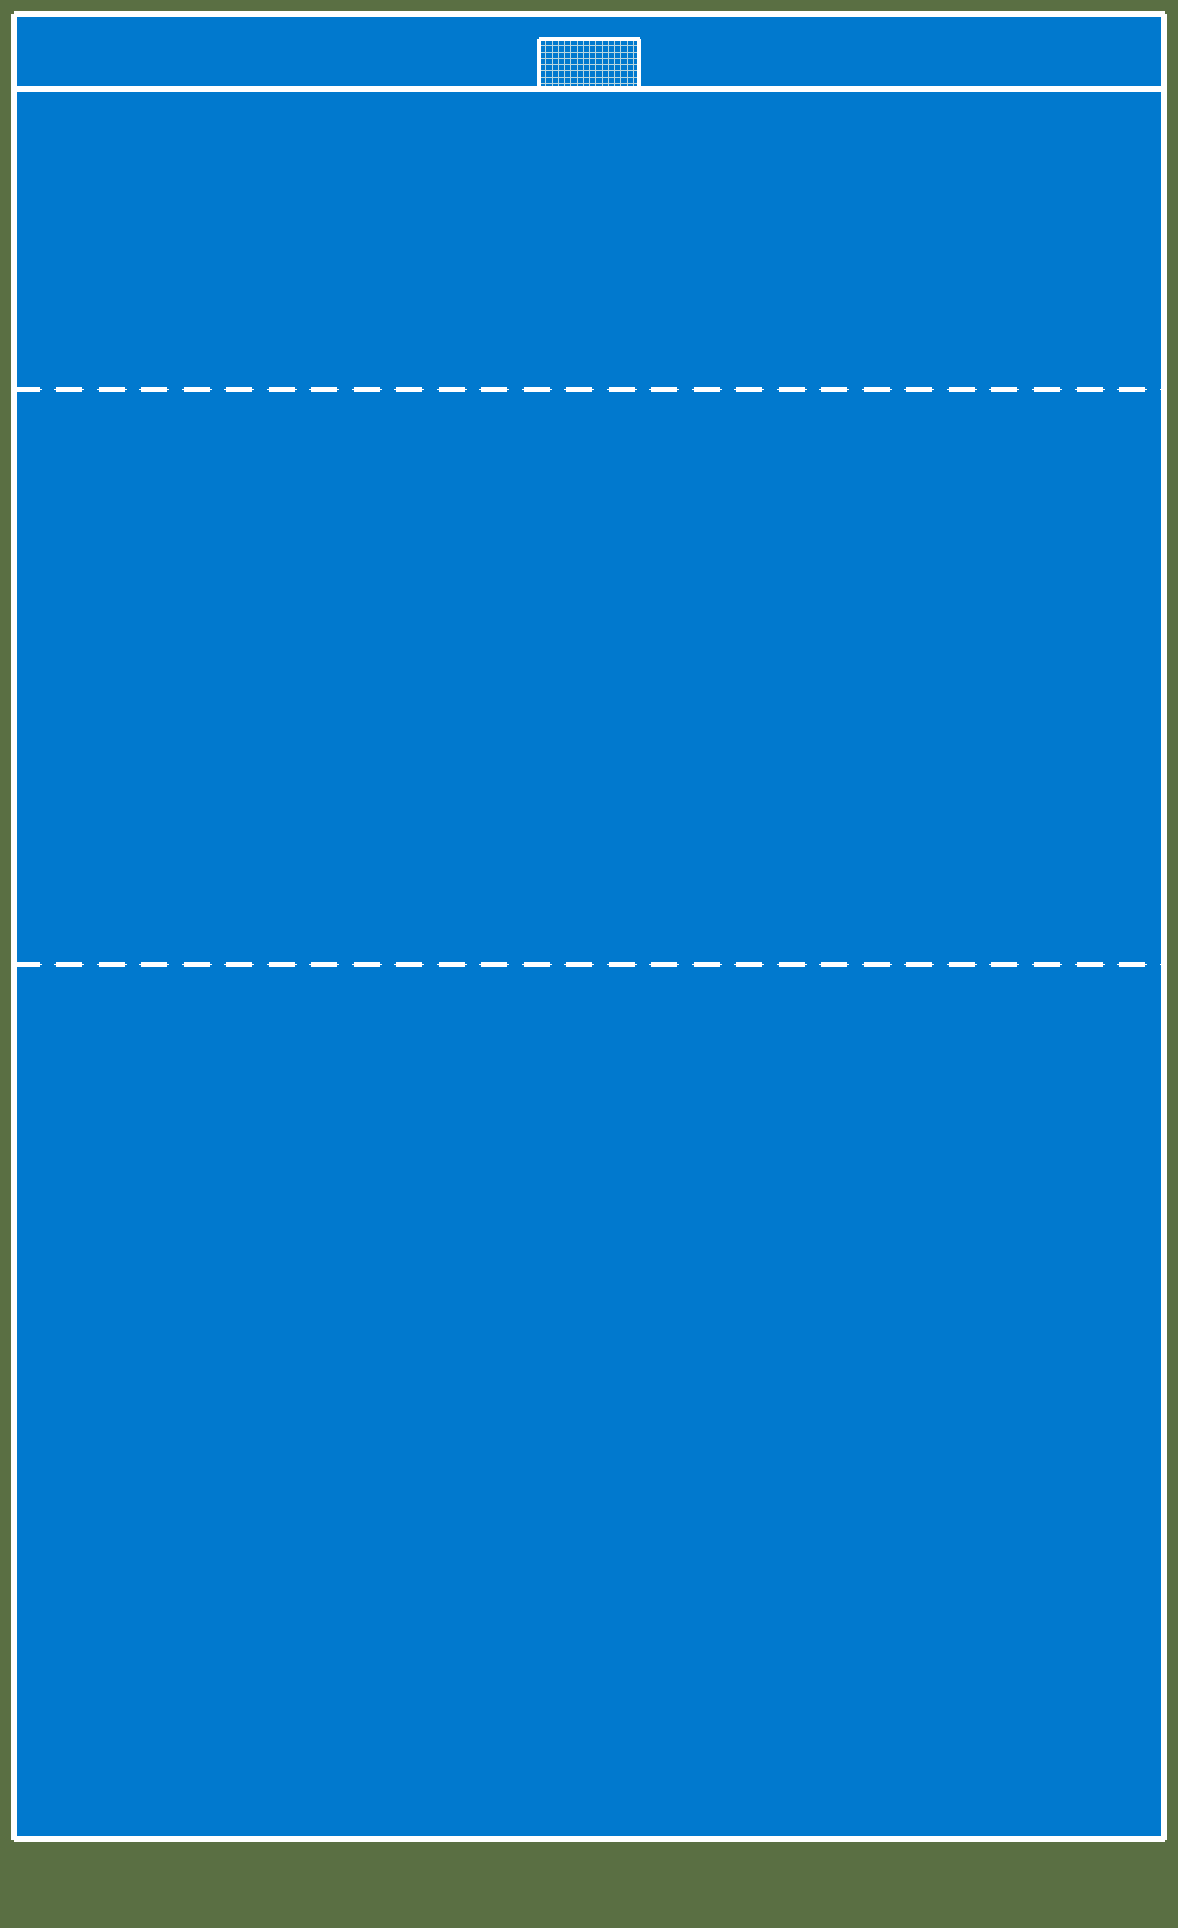
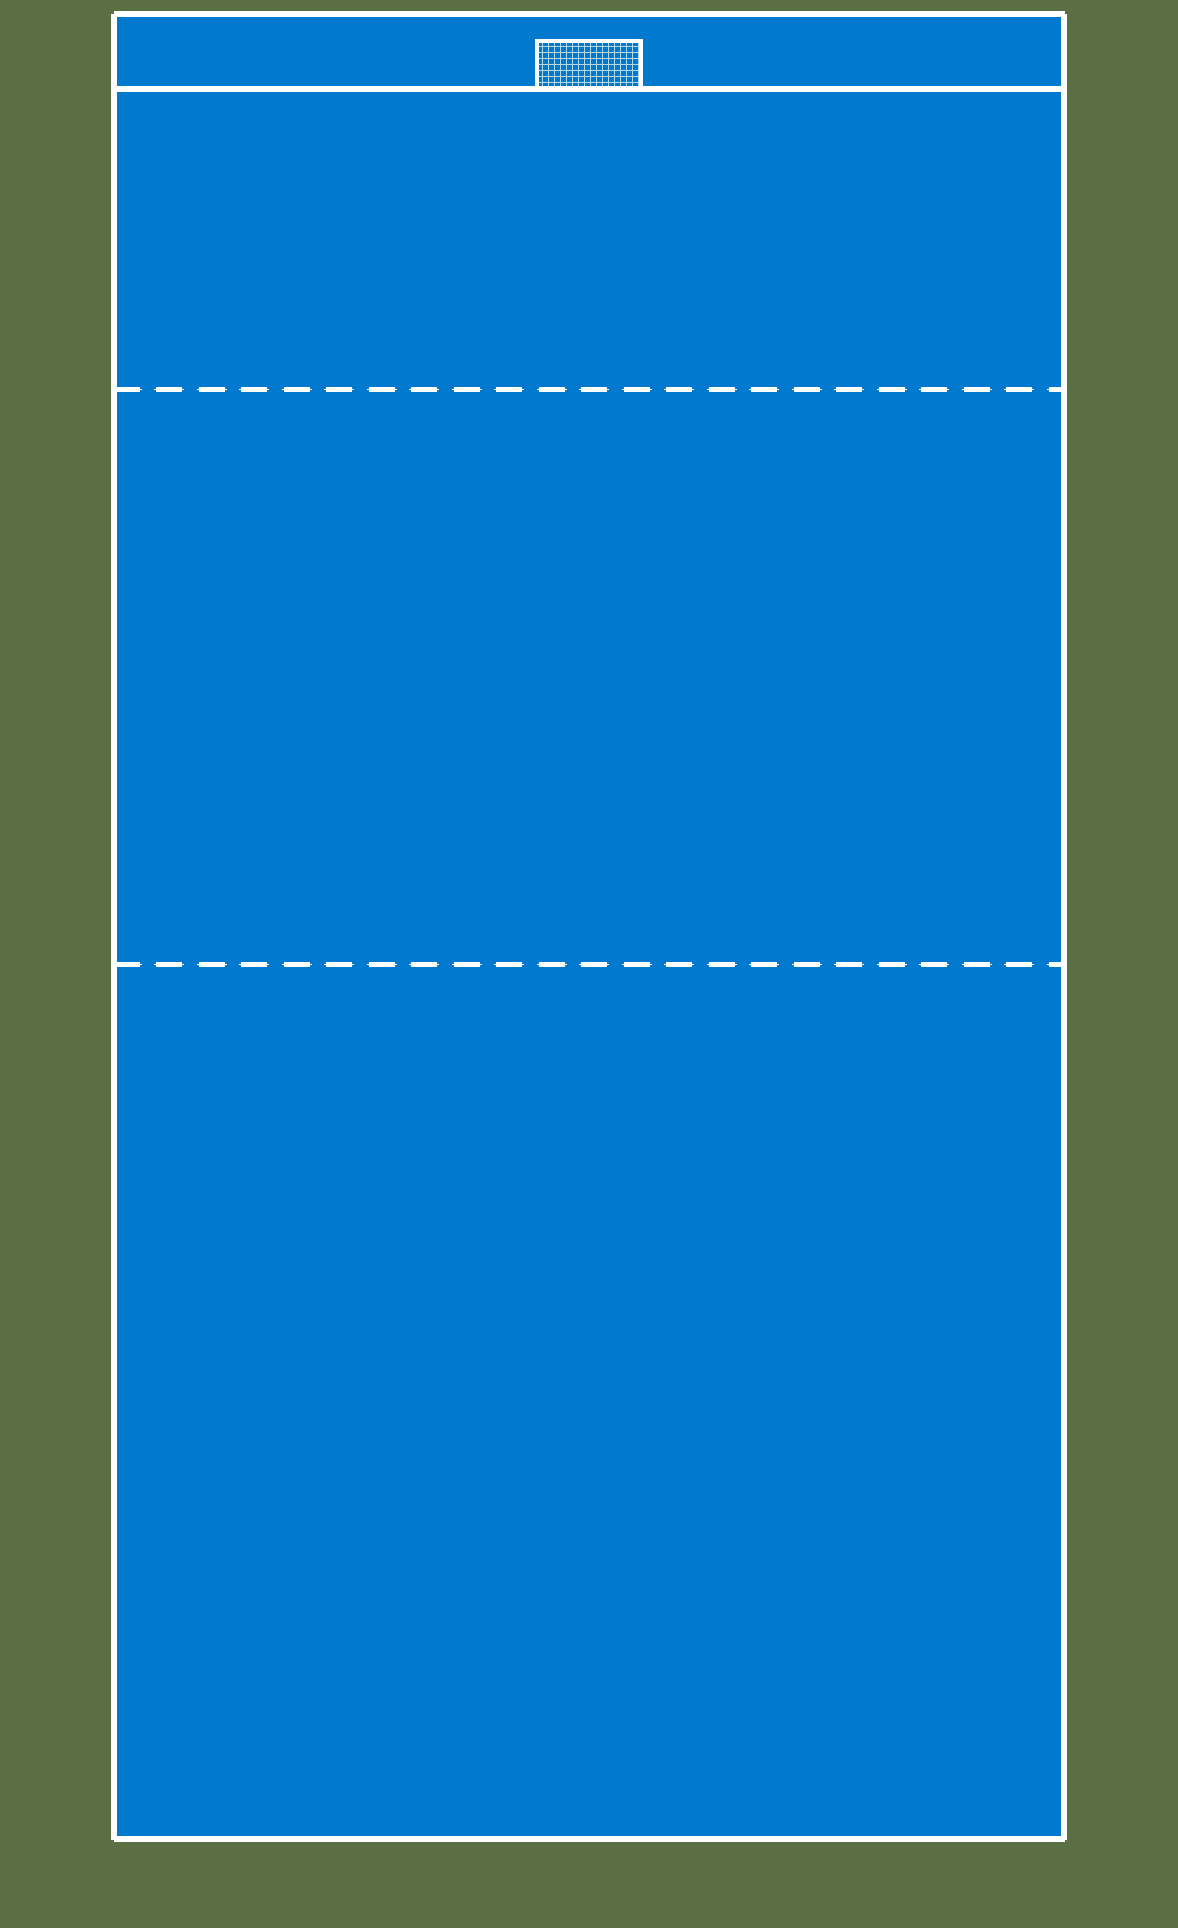
Afina la cancha y centra mejor el arco

Changed region(s): [[0.8862, 0.0, 1.0, 0.9647], [0.0, 0.0, 0.1222, 0.9647], [0.4584, 0.0, 0.5501, 0.0622]]

diff --git a/script.js b/script.js
@@ -12,12 +12,12 @@ const ctx = canvas.getContext("2d");
 // Geometría del fondo: 50 píxeles representan exactamente un metro.
 const ESCALA_PX_M = 50;
 const CAMPO_LARGO_M = 35;
-const CAMPO_ANCHO_M = 23;
+const CAMPO_ANCHO_M = 19;
 const FONDO_ANCHO_PX = 1178;
 const FONDO_ALTO_PX = 1928;
 const CAMPO_ORIGEN_X = (FONDO_ANCHO_PX - CAMPO_ANCHO_M * ESCALA_PX_M) / 2;
 const CAMPO_ORIGEN_Y = (FONDO_ALTO_PX - CAMPO_LARGO_M * ESCALA_PX_M) / 2;
-const ASSET_VERSION = "2026-08-31-02";
+const ASSET_VERSION = "2026-08-31-04";
 
 function assetUrl(path) {
   return `${path}?v=${ASSET_VERSION}`;
@@ -111,13 +111,13 @@ imgPelota.src = assetUrl("pelota.png");
 
 /* ================= OBJETOS ================= */
 
-const TAM_BOTE = 70;
+const TAM_BOTE = 78;
 const TAM_PELOTA = 30;
 const botes = [];
 
 // Formación inicial: los dos equipos ordenados sobre el costado izquierdo del
 // campo, en dos columnas. Todas las posiciones nacen en metros y quedan dentro
-// del campo (0..23 m de ancho, 0..35 m de largo).
+// del campo (0..19 m de ancho, 0..35 m de largo).
 const COLUMNA_ROJA_X_M = 2.2;
 const COLUMNA_AZUL_X_M = 4.8;
 const FILAS_FORMACION_M = [5.0, 8.5, 12.0, 15.5, 19.0, 22.5, 26.0, 29.5];

diff --git a/generar-fondo.py b/generar-fondo.py
@@ -11,7 +11,7 @@ import zlib
 
 ESCALA_PX_M = 50
 CAMPO_LARGO_M = 35
-CAMPO_ANCHO_M = 23
+CAMPO_ANCHO_M = 19
 ANCHO_PNG, ALTO_PNG = 1178, 1928
 
 # El campo queda centrado en el lienzo, con un margen que también se expresa
@@ -110,44 +110,38 @@ def linea_punteada_horizontal(im, y_m):
 
 
 def dibujar_arco_superior(im):
-    """Dibuja el único arco: un rectángulo de 1,5 m x 1 m con malla densa.
+    """Dibuja el único arco: un rectángulo de 2 m x 1 m centrado de forma exacta.
 
-    El arco queda centrado sobre la línea de gol superior, apoyado sobre la
-    franja de agua que hay detrás de esa línea, tal como en la referencia.
+    El marco y la malla se colocan tomando como referencia el centro en píxeles
+    del campo, para evitar el corrimiento visual de un lado respecto del otro.
     """
-    lateral_izquierdo_m = (CAMPO_ANCHO_M - ARCO_ANCHO_M) / 2
-    lateral_derecho_m = lateral_izquierdo_m + ARCO_ANCHO_M
-    fondo_m = -ARCO_PROFUNDIDAD_M
+    campo_x1, campo_y1 = punto_campo(0, 0)
+    campo_x2, _ = punto_campo(CAMPO_ANCHO_M, 0)
+    _, fondo_y = punto_campo(0, -ARCO_PROFUNDIDAD_M)
 
-    # Malla: cuadrícula densa de hilos verticales y horizontales que cubre
-    # todo el interior del rectángulo del arco (1,5 m x 1 m = 75 x 50 px).
-    hilo_m = 0.0
-    while hilo_m <= ARCO_ANCHO_M + 1e-9:
-        x_m = lateral_izquierdo_m + hilo_m
-        linea_campo(im, x_m, 0, x_m, fondo_m, RED, 0.02)
-        hilo_m += ARCO_MALLA_PASO_M
+    centro_x = (campo_x1 + campo_x2) // 2
+    ancho_libre_px = metros_a_px(ARCO_ANCHO_M)
+    profundidad_px = metros_a_px(ARCO_PROFUNDIDAD_M)
+    poste_px = max(3, metros_a_px(POSTE_ARCO_M))
+    paso_malla_px = max(4, int(ARCO_MALLA_PASO_M * ESCALA_PX_M + 0.5))
 
-    hilo_m = 0.0
-    while hilo_m <= ARCO_PROFUNDIDAD_M + 1e-9:
-        y_m = -hilo_m
-        linea_campo(im, lateral_izquierdo_m, y_m, lateral_derecho_m, y_m, RED, 0.02)
-        hilo_m += ARCO_MALLA_PASO_M
+    izquierda_interior = centro_x - ancho_libre_px // 2
+    derecha_interior = centro_x + ancho_libre_px // 2
+    izquierda_exterior = izquierda_interior - poste_px
+    derecha_exterior = derecha_interior + poste_px
+    techo_y = fondo_y
+    base_y = techo_y + profundidad_px
 
-    # Marco blanco del arco: los dos postes delimitan exactamente 1,5 m entre
-    # sus líneas centrales y se prolongan exactamente 1 m fuera de la línea de
-    # gol, donde los cierra el travesaño posterior.
-    linea_campo(
-        im, lateral_izquierdo_m, 0, lateral_izquierdo_m, fondo_m,
-        BLANCO, POSTE_ARCO_M,
-    )
-    linea_campo(
-        im, lateral_derecho_m, 0, lateral_derecho_m, fondo_m,
-        BLANCO, POSTE_ARCO_M,
-    )
-    linea_campo(
-        im, lateral_izquierdo_m, fondo_m, lateral_derecho_m, fondo_m,
-        BLANCO, POSTE_ARCO_M,
-    )
+    # Malla densa dentro del rectángulo completo del arco, bien centrada.
+    for x in range(izquierda_exterior + 1, derecha_exterior, paso_malla_px):
+        rectangulo(im, x, techo_y, x + 1, base_y, RED)
+    for y in range(techo_y + 1, base_y, paso_malla_px):
+        rectangulo(im, izquierda_exterior, y, derecha_exterior, y + 1, RED)
+
+    # Marco blanco, simétrico respecto del centro del campo.
+    rectangulo(im, izquierda_exterior, techo_y, izquierda_exterior + poste_px, campo_y1, BLANCO)
+    rectangulo(im, derecha_interior, techo_y, derecha_interior + poste_px, campo_y1, BLANCO)
+    rectangulo(im, izquierda_exterior, techo_y, derecha_exterior, techo_y + poste_px, BLANCO)
 
 
 def generar():
@@ -155,8 +149,8 @@ def generar():
 
     campo_x1, campo_y1 = punto_campo(0, 0)
     campo_x2, campo_y2 = punto_campo(CAMPO_ANCHO_M, CAMPO_LARGO_M)
-    # El rectángulo de agua tiene exactamente 1150 × 1750 píxeles entre sus
-    # líneas de referencia, porque mide 23 × 35 metros a 50 píxeles por metro.
+    # El rectángulo de agua tiene exactamente 950 × 1750 píxeles entre sus
+    # líneas de referencia, porque mide 19 × 35 metros a 50 píxeles por metro.
     rectangulo(im, campo_x1, campo_y1, campo_x2, campo_y2, AGUA)
 
     # Agua detrás de la línea de gol: la pileta sigue más allá del campo
